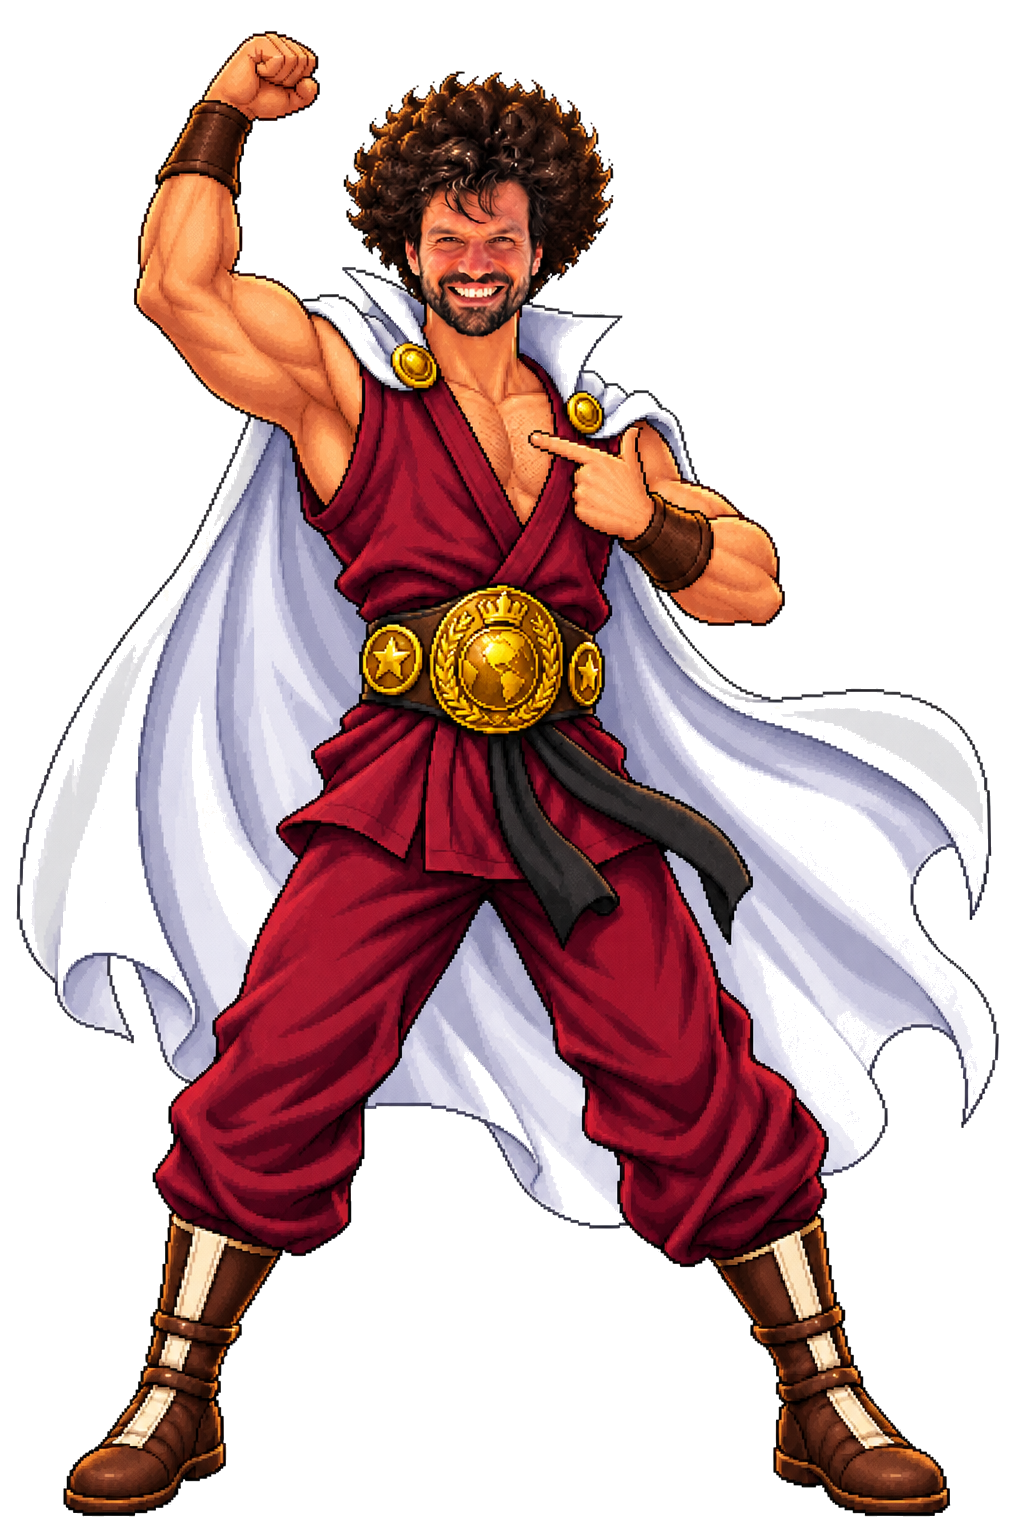
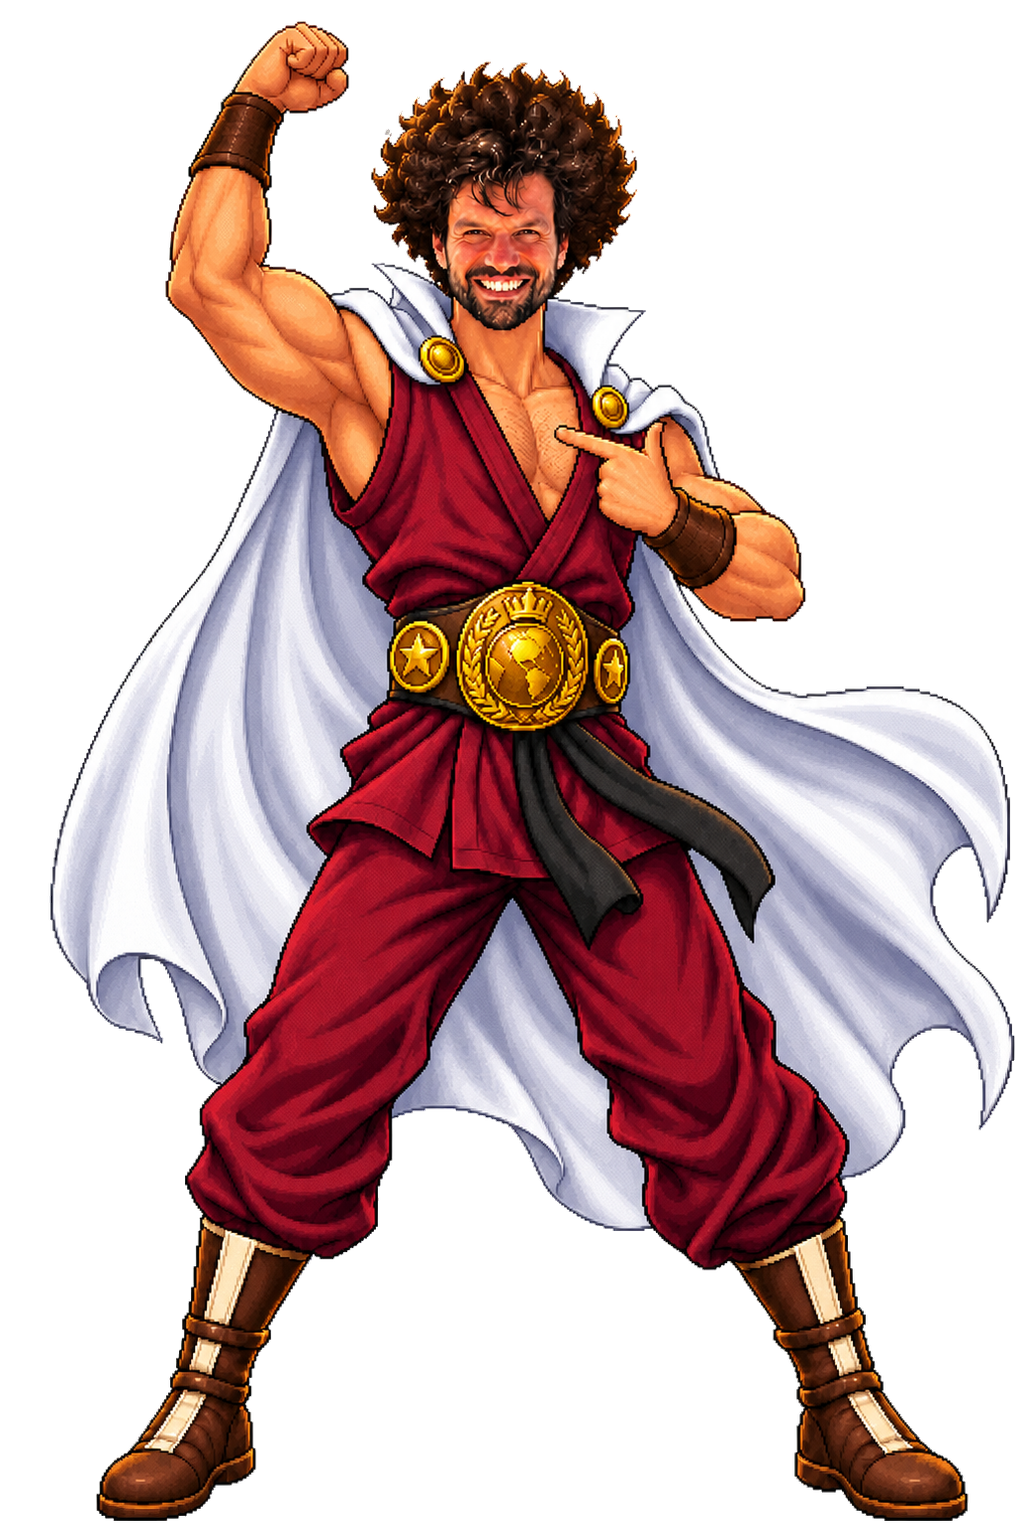
Corrige la cape d Alexandre et finalise l arene multijoueur

diff --git a/game.js b/game.js
@@ -4,7 +4,7 @@ const icons={
   green:`<svg class="med-icon" viewBox="0 0 48 48" aria-label="Bistouri"><path d="M7 41l3 2 19-21-3-4z"/><path d="M26 18L39 2v5c-1 6-5 12-10 15z" fill="white"/><path d="M10 39l17-19"/></svg>`,
   blue:`<svg class="med-icon" viewBox="0 0 48 48" aria-label="Seringue"><path d="M14 29l15-15 7 7-15 15z"/><path d="M33 18L44 7M10 25l5 5M20 35l5 5M17 33L9 41M5 37l8 8"/><path d="M19 29l4 4M22 26l4 4M25 23l4 4"/></svg>`
 };
-const CHARACTERS=[['Pascal','pascal-pirate.png'],['Mathieu','mathieu-luchador.png'],['Pierre','pierre-halloween.png'],['Adela','adela-egyptienne.png'],['JB','jb-cosmonaute.png?v=20260819-2'],['Romain','romain-poulet.png'],['Natacha','natacha-princesse.png'],['Fanny','fanny-exploratrice.png'],['Félix','felix-cyborg.png'],['Youri','youri-paladin.png?v=20260819-2'],['Quentin','quentin-dictateur.png'],['Nicolas','nicolas-vigilante.png'],['Yannick','yannick-cardinal.png?v=20260819-2'],['Cecilia','cecilia-infirmiere.png'],['Thibault','thibault-aventurier.png'],['Polo','polo-dandy.png'],['Édouard','edouard-aviateur.png'],['Justin','justin-judoka.png'],['Charlotte','charlotte-cavaliere.png?v=20260819-2'],["Catoire d’Arabie",'catoire-arabie.png'],['Rémy','remy-shaolin.png'],['Olivier','olivier-policier.png?v=20260819-2'],['Raphaël','raphael-scaphandrier.png?v=20260819-3'],['Éric','eric-druide.png'],['Cyril','cyril-alchimiste.png'],['Rémi','remi-berserker.png'],['Thomas','thomas-capitaine-sous-marin.png'],['Benjamin','benjamin-sherif.png'],['Edwin','edwin-zadiste.png'],['Alexandre','alexandre-hercule-satan.png'],['Erwan','erwan-bucheron.png']];
+const CHARACTERS=[['Pascal','pascal-pirate.png'],['Mathieu','mathieu-luchador.png'],['Pierre','pierre-halloween.png'],['Adela','adela-egyptienne.png'],['JB','jb-cosmonaute.png?v=20260819-2'],['Romain','romain-poulet.png'],['Natacha','natacha-princesse.png'],['Fanny','fanny-exploratrice.png'],['Félix','felix-cyborg.png'],['Youri','youri-paladin.png?v=20260819-2'],['Quentin','quentin-dictateur.png'],['Nicolas','nicolas-vigilante.png'],['Yannick','yannick-cardinal.png?v=20260819-2'],['Cecilia','cecilia-infirmiere.png'],['Thibault','thibault-aventurier.png'],['Polo','polo-dandy.png'],['Édouard','edouard-aviateur.png'],['Justin','justin-judoka.png'],['Charlotte','charlotte-cavaliere.png?v=20260819-2'],["Catoire d’Arabie",'catoire-arabie.png'],['Rémy','remy-shaolin.png'],['Olivier','olivier-policier.png?v=20260819-2'],['Raphaël','raphael-scaphandrier.png?v=20260819-3'],['Éric','eric-druide.png'],['Cyril','cyril-alchimiste.png'],['Rémi','remi-berserker.png'],['Thomas','thomas-capitaine-sous-marin.png'],['Benjamin','benjamin-sherif.png'],['Edwin','edwin-zadiste.png'],['Alexandre','alexandre-hercule-satan.png?v=20260819-2'],['Erwan','erwan-bucheron.png']];
 const FEMININE_HAND_CHARACTERS=new Set(['Adela','Natacha','Fanny','Cecilia','Charlotte']);
 const $=id=>document.getElementById(id);let socket,state,session=JSON.parse(localStorage.getItem('duel-session')||'null'),lastChatCount=0,reconnectTimer=null,connectionNumber=0,leavingRoom=false;
 const invitedCode=new URLSearchParams(location.search).get('join')?.trim().toUpperCase().replace(/[^A-Z2-9]/g,'').slice(0,5)||'';
@@ -76,8 +76,8 @@ function bindKickButtons(scope=document){scope.querySelectorAll('[data-kick]').f
 function renderWaiting(){$('copyCode').textContent=state.code;const host=state.viewerId===state.hostId,spectators=state.spectators.map(s=>`<div class="waiting-player spectator"><span class="spectator-icon">👁</span><span><b>${esc(s.name)}</b><small>ORGANISATEUR / SPECTATEUR${s.id===state.hostId?' · HÔTE':''}</small></span><i class="${s.connected?'online':''}"></i></div>`).join('');$('waitingPlayers').innerHTML=spectators+state.players.map(p=>`<div class="waiting-player"><img src="assets/characters/${characterFile(p.character)}" alt=""><span><b>${esc(p.name)}</b><small>${esc(p.character)}${p.id===state.hostId?' · HÔTE':''}${p.connected?'':' · DÉCONNECTÉ'}</small></span><i class="${p.connected?'online':''}"></i>${kickButton(p)}</div>`).join('');$('onlineStartButton').classList.toggle('hidden',!host);$('waitingCapacityLabel').classList.toggle('hidden',!host);$('waitingMaxPlayers').value=String(state.maxPlayers||6);$('waitingHint').textContent=host?(state.players.length<2?`En attente d’au moins deux joueurs actifs… (${state.players.length}/${state.maxPlayers})`:`${state.players.length}/${state.maxPlayers} joueurs dans la salle. Vous pouvez lancer la partie.`):`L’hôte lancera la partie · ${state.players.length}/${state.maxPlayers} joueurs.`;bindKickButtons($('waitingPlayers'))}
 function renderChat(){if(!state)return;const box=$('chatMessages'),atBottom=box.scrollHeight-box.scrollTop-box.clientHeight<40;box.innerHTML=state.chat.map(m=>`<div class="chat-message ${m.role==='spectator'?'spectator':''}"><b>${esc(m.sender)}</b><span>${esc(m.text)}</span></div>`).join('')||'<p class="chat-empty">Le chat est ouvert. Soyez le premier à parler.</p>';if(atBottom)box.scrollTop=box.scrollHeight;if(state.chat.length>lastChatCount&&$('chatPanel').classList.contains('collapsed'))$('chatBadge').textContent=String(state.chat.length-lastChatCount);lastChatCount=state.chat.length}
 function legalIds(){const me=state.players.find(p=>p.id===state.viewerId);if(!me||state.phase!=='play'||state.players[state.turn]?.id!==state.viewerId)return new Set();if(!state.leadColor)return new Set(me.dice.map(d=>d.id));const matching=me.dice.filter(d=>d.color===state.leadColor);return new Set((matching.length?[...matching,...me.dice.filter(d=>special(d.color))]:me.dice).map(d=>d.id))}
-function renderGame(){const legal=legalIds();$('roundValue').textContent=`${state.round} / ${state.totalRounds}`;$('trickValue').textContent=`${state.trick} / ${state.round}`;$('leadColor').textContent=state.leadColor?COLORS[state.leadColor].toUpperCase():'—';$('phaseValue').textContent={bids:'PARIS',play:'LANCER',result:'RÉSULTAT',over:'TERMINÉ'}[state.phase]||state.phase;$('game').dataset.phase=state.phase;$('playersGrid').dataset.count=state.players.length;
-  $('playersGrid').innerHTML=state.players.map((p,i)=>{const active=i===state.turn&&['bids','play'].includes(state.phase),mine=p.id===state.viewerId,side=i%2?'right-avatar':'left-avatar',bidDisplay=bidsAreRevealed()?bidGestureHTML(p,i,true):`<b>${p.bid??'—'}</b>`;return `<article class="player-card ${active?'active':''} ${mine?'is-me':''}"><div class="turn-indicator"><span>${mine?'À VOUS DE JOUER':'À SON TOUR'}</span><b>▼</b></div><div class="avatar-zone ${side}" aria-hidden="true"><div class="avatar-aura"></div><img class="character-sprite" src="assets/characters/${characterFile(p.character)}" alt=""><div class="avatar-shadow"></div></div><div class="player-head"><h3>${esc(p.name)}</h3><strong>${p.score}</strong></div><div class="metrics"><span class="bid-metric">PARI ${bidDisplay}</span><span>PLIS <b>${p.tricks}</b></span>${mine?'<span>VOUS</span>':''}</div><div class="dice-rack">${p.dice.map(d=>dieHTML(d,legal.has(d.id))).join('')}</div>${p.connected?'':'<small class="disconnected">HORS CONNEXION</small>'}${kickButton(p)}</article>`}).join('');document.querySelectorAll('[data-die]').forEach(el=>el.onclick=()=>send('play',{dieId:el.dataset.die}));bindKickButtons($('playersGrid'));$('playedDice').innerHTML=state.played.map(x=>`<div class="played-slot">${dieHTML(x.die)}<small>${esc(state.players[x.player].name)}</small></div>`).join('');$('bidReveal').classList.toggle('hidden',!shouldShowBidReveal());$('bidReveal').innerHTML=shouldShowBidReveal()?`<h3>PARIS RÉVÉLÉS !</h3>${bidRevealHTML()}`:'';$('bidControls').innerHTML='';$('nextButton').classList.add('hidden');$('resetButton').classList.add('hidden');$('newRoomButton').classList.add('hidden');const turnPlayer=state.players[state.turn],myTurn=turnPlayer?.id===state.viewerId;
+function renderGame(){const legal=legalIds();$('roundValue').textContent=`${state.round} / ${state.totalRounds}`;$('trickValue').textContent=`${state.trick} / ${state.round}`;$('leadColor').textContent=state.leadColor?COLORS[state.leadColor].toUpperCase():'—';$('phaseValue').textContent={bids:'PARIS',play:'LANCER',result:'RÉSULTAT',over:'TERMINÉ'}[state.phase]||state.phase;$('game').dataset.phase=state.phase;$('playersGrid').dataset.count=state.players.length;const arena=document.querySelector('.multiplayer-arena');arena.dataset.playerCount=state.players.length;arena.classList.toggle('radial-arena',state.players.length>=3);
+  $('playersGrid').innerHTML=state.players.map((p,i)=>{const active=i===state.turn&&['bids','play'].includes(state.phase),mine=p.id===state.viewerId,side=i%2?'right-avatar':'left-avatar',bidDisplay=`<b class="metric-number bid-number">${p.bid??'—'}</b>`;return `<article class="player-card ${active?'active':''} ${mine?'is-me':''}"><div class="turn-indicator"><span>${mine?'À VOUS DE JOUER':'À SON TOUR'}</span><b>▼</b></div><div class="avatar-zone ${side}" aria-hidden="true"><div class="avatar-aura"></div><img class="character-sprite" src="assets/characters/${characterFile(p.character)}" alt=""><div class="avatar-shadow"></div></div><div class="player-head"><h3>${esc(p.name)}</h3><strong>${p.score}</strong></div><div class="metrics"><span class="bid-metric">PARI ${bidDisplay}</span><span class="trick-metric">PLIS <b class="metric-number">${p.tricks}</b></span>${mine?'<span>VOUS</span>':''}</div><div class="dice-rack">${p.dice.map(d=>dieHTML(d,legal.has(d.id))).join('')}</div>${p.connected?'':'<small class="disconnected">HORS CONNEXION</small>'}${kickButton(p)}</article>`}).join('');document.querySelectorAll('[data-die]').forEach(el=>el.onclick=()=>send('play',{dieId:el.dataset.die}));bindKickButtons($('playersGrid'));$('playedDice').innerHTML=state.played.map(x=>`<div class="played-slot">${dieHTML(x.die)}<small>${esc(state.players[x.player].name)}</small></div>`).join('');$('bidReveal').classList.toggle('hidden',!shouldShowBidReveal());$('bidReveal').innerHTML=shouldShowBidReveal()?`<h3>PARIS RÉVÉLÉS !</h3>${bidRevealHTML()}`:'';$('bidControls').innerHTML='';$('nextButton').classList.add('hidden');$('resetButton').classList.add('hidden');$('newRoomButton').classList.add('hidden');const turnPlayer=state.players[state.turn],myTurn=turnPlayer?.id===state.viewerId;
   if(state.phase==='bids'){$('message').innerHTML=`<strong>PARI DE ${esc(turnPlayer.name.toUpperCase())}</strong><br><span>${myTurn?'Choisissez le nombre de plis que vous allez remporter.':'En attente de son pari…'}</span>`;if(myTurn){$('bidControls').innerHTML=Array.from({length:state.round+1},(_,n)=>`<button data-bid="${n}">${n}</button>`).join('');document.querySelectorAll('[data-bid]').forEach(el=>el.onclick=()=>send('bid',{bid:+el.dataset.bid}))}}
   if(state.phase==='play')$('message').innerHTML=`<strong>AU TOUR DE ${esc(turnPlayer.name.toUpperCase())}</strong><br><span>${myTurn?'Choisissez maintenant l’un de vos dés illuminés.':'Son choix apparaîtra ici.'}</span>`;if(state.phase==='result'){$('message').textContent=`Pli remporté par ${state.players[state.leader].name}.`;$('nextButton').classList.toggle('hidden',state.players[state.leader].id!==state.viewerId)}if(state.phase==='over'){const max=Math.max(...state.players.map(p=>p.score)),winners=state.players.filter(p=>p.score===max).map(p=>p.name);$('message').textContent=winners.length>1?`Égalité : ${winners.join(' et ')}.`:`${winners[0]} remporte le duel !`;$('playedDice').innerHTML='<strong>DUEL TERMINÉ</strong>';const host=state.viewerId===state.hostId;$('resetButton').classList.toggle('hidden',!host);$('newRoomButton').classList.toggle('hidden',!host)}renderMobileStage()}
 function renderMobileStage(){

diff --git a/multiplayer.css b/multiplayer.css
@@ -56,7 +56,9 @@
 .bid-gesture em{position:absolute;right:1px;bottom:1px;display:grid;width:24px;height:24px;place-items:center;border:1px solid #ffe49b;border-radius:50%;background:#772a1d;color:#fff3bd;font:900 14px/1 Georgia,serif;box-shadow:0 2px 0 #32120c}
 .bid-gesture.compact{width:34px;height:25px;margin:-8px 0 -6px;vertical-align:middle;filter:none}
 .bid-gesture.compact em{right:-3px;bottom:-3px;width:14px;height:14px;font-size:8px}
-.bid-metric{display:inline-flex!important;align-items:center;gap:3px}
+.bid-metric,.trick-metric{display:inline-flex!important;align-items:center;gap:6px;font-size:11px!important;letter-spacing:.08em}
+.arena .metrics .metric-number{display:inline-grid;min-width:21px;height:21px;place-items:center;padding:0;border:1px solid #7a5429;border-radius:50%;background:#b53627;color:#fff1c2;font:900 12px/1 Arial,sans-serif;letter-spacing:0;box-shadow:0 2px 0 #5a261d,0 0 6px #b83a252b}
+.arena .metrics .trick-metric .metric-number{background:#8f2e24}
 @keyframes bid-hand-reveal{from{opacity:0;transform:translateY(18px) scale(.72)}to{opacity:1;transform:none}}
 
 @media(max-width:620px){
@@ -376,6 +378,100 @@
   .arena.multiplayer-arena>.players-grid>article.player-card.active{
     box-shadow:0 18px 34px #0009,0 0 28px #ffb743aa,inset 0 0 0 2px #f1d38c,inset 0 0 35px #b77b2844!important;
   }
+
+  /* À partir de trois joueurs, la table devient une arène : le parchemin
+     commun reste au centre et les joueurs sont répartis sur son pourtour. */
+  .arena.multiplayer-arena.radial-arena{
+    position:relative!important;
+    display:block!important;
+    min-height:790px!important;
+    padding:20px 16px 24px!important;
+    overflow:hidden;
+  }
+  .arena.multiplayer-arena.radial-arena>.table{
+    position:absolute!important;
+    z-index:3;
+    left:50%!important;
+    top:50%!important;
+    grid-column:auto!important;
+    grid-row:auto!important;
+    width:clamp(360px,38%,455px)!important;
+    min-height:0!important;
+    aspect-ratio:1 / 1!important;
+    margin:0!important;
+    padding:48px 38px 42px!important;
+    border-radius:46% 46% 43% 43% / 42% 42% 48% 48%!important;
+    transform:translate(-50%,-50%)!important;
+    box-shadow:0 24px 42px #000b,0 0 0 8px #70501f88,inset 0 0 0 3px #d9b75f,inset 0 0 55px #9c6a2338!important;
+  }
+  .arena.multiplayer-arena.radial-arena>.table::before,
+  .arena.multiplayer-arena.radial-arena>.table::after{border-radius:inherit!important}
+  .arena.multiplayer-arena.radial-arena>.players-grid{
+    position:absolute!important;
+    z-index:4;
+    inset:0!important;
+    display:block!important;
+    pointer-events:none;
+  }
+  .arena.multiplayer-arena.radial-arena>.players-grid>article.player-card{
+    position:absolute!important;
+    width:clamp(205px,21vw,258px)!important;
+    min-height:205px!important;
+    margin:0!important;
+    padding:13px!important;
+    pointer-events:auto;
+    transition:filter .2s ease,box-shadow .2s ease,transform .2s ease;
+  }
+  .arena.multiplayer-arena.radial-arena .avatar-zone{
+    top:-142px!important;
+    width:142px!important;
+    height:158px!important;
+    overflow:hidden;
+    -webkit-mask-image:linear-gradient(#000 0 78%,transparent 100%);
+    mask-image:linear-gradient(#000 0 78%,transparent 100%);
+  }
+  .arena.multiplayer-arena.radial-arena .character-sprite{
+    max-height:158px!important;
+    object-position:center bottom!important;
+  }
+  .arena.multiplayer-arena.radial-arena .dice-rack{min-height:58px!important;gap:7px!important}
+  .arena.multiplayer-arena.radial-arena .die{width:44px!important;height:44px!important}
+  .arena.multiplayer-arena.radial-arena .turn-indicator{top:-42px!important}
+
+  /* Trois joueurs : un sommet et deux adversaires à la base de l'ellipse. */
+  .radial-arena[data-player-count="3"]>.players-grid>article:nth-child(1){left:50%;top:142px;transform:translateX(-50%)}
+  .radial-arena[data-player-count="3"]>.players-grid>article:nth-child(2){left:28px;bottom:30px}
+  .radial-arena[data-player-count="3"]>.players-grid>article:nth-child(3){right:28px;bottom:30px}
+
+  /* Quatre joueurs : les cartes occupent les quatre quarts de l'arène. */
+  .radial-arena[data-player-count="4"]>.players-grid>article:nth-child(1){left:24px;top:155px}
+  .radial-arena[data-player-count="4"]>.players-grid>article:nth-child(2){right:24px;top:155px}
+  .radial-arena[data-player-count="4"]>.players-grid>article:nth-child(3){left:24px;bottom:26px}
+  .radial-arena[data-player-count="4"]>.players-grid>article:nth-child(4){right:24px;bottom:26px}
+
+  /* Cinq et six joueurs : colonnes courbes de part et d'autre du centre. */
+  .radial-arena:is([data-player-count="5"],[data-player-count="6"]){min-height:820px!important}
+  .radial-arena:is([data-player-count="5"],[data-player-count="6"])>.table{width:clamp(340px,34%,410px)!important}
+  .radial-arena:is([data-player-count="5"],[data-player-count="6"])>.players-grid>article.player-card{
+    width:clamp(190px,19vw,228px)!important;
+    min-height:174px!important;
+    padding:11px!important;
+  }
+  .radial-arena:is([data-player-count="5"],[data-player-count="6"]) .avatar-zone{top:-112px!important;width:116px!important;height:128px!important}
+  .radial-arena:is([data-player-count="5"],[data-player-count="6"]) .character-sprite{max-height:128px!important}
+  .radial-arena:is([data-player-count="5"],[data-player-count="6"]) .die{width:39px!important;height:39px!important}
+  .radial-arena:is([data-player-count="5"],[data-player-count="6"]) .dice-rack{min-height:48px!important}
+  .radial-arena[data-player-count="5"]>.players-grid>article:nth-child(1){left:28px;top:130px}
+  .radial-arena[data-player-count="5"]>.players-grid>article:nth-child(2){right:28px;top:130px}
+  .radial-arena[data-player-count="5"]>.players-grid>article:nth-child(3){left:18px;bottom:42px}
+  .radial-arena[data-player-count="5"]>.players-grid>article:nth-child(4){right:18px;bottom:42px}
+  .radial-arena[data-player-count="5"]>.players-grid>article:nth-child(5){left:50%;bottom:18px;transform:translateX(-50%)}
+  .radial-arena[data-player-count="6"]>.players-grid>article:nth-child(1){left:24px;top:118px}
+  .radial-arena[data-player-count="6"]>.players-grid>article:nth-child(2){right:24px;top:118px}
+  .radial-arena[data-player-count="6"]>.players-grid>article:nth-child(3){left:12px;top:50%;transform:translateY(-18%)}
+  .radial-arena[data-player-count="6"]>.players-grid>article:nth-child(4){right:12px;top:50%;transform:translateY(-18%)}
+  .radial-arena[data-player-count="6"]>.players-grid>article:nth-child(5){left:24px;bottom:20px}
+  .radial-arena[data-player-count="6"]>.players-grid>article:nth-child(6){right:24px;bottom:20px}
 }
 @media(max-width:620px){
   .mobile-tabs{display:none!important}.arena.multiplayer-arena{display:none!important}.mobile-stage{display:flex;min-height:calc(100dvh - 205px);margin-top:7px;padding:18px 14px 142px;border:1px solid #8fcdbd55;border-radius:14px;background:linear-gradient(#071b20e8,#102d29f2),url("assets/environments/jungle-temple-arena.png") center/cover;box-shadow:inset 0 0 35px #0008;flex-direction:column;color:#effff9}

diff --git a/index.html b/index.html
@@ -13,7 +13,7 @@
   <link rel="manifest" href="/site.webmanifest?v=2">
   <link rel="stylesheet" href="styles.css?v=5">
   <link rel="stylesheet" href="theme.css?v=5">
-  <link rel="stylesheet" href="multiplayer.css?v=20">
+  <link rel="stylesheet" href="multiplayer.css?v=22">
 </head>
 <body>
   <div id="connectionBanner" class="connection-banner hidden">RECONNEXION AU SERVEUR…</div>
@@ -56,11 +56,11 @@
         </label>
         <label>NOMBRE MAXIMAL DE JOUEURS
           <select id="maxPlayers">
-            <option value="2" selected>2 joueurs</option>
+            <option value="2">2 joueurs</option>
             <option value="3">3 joueurs</option>
             <option value="4">4 joueurs</option>
             <option value="5">5 joueurs</option>
-            <option value="6">6 joueurs</option>
+            <option value="6" selected>6 joueurs</option>
           </select>
         </label>
         <div class="lobby-choice">
@@ -92,7 +92,7 @@
         <label id="waitingCapacityLabel" class="waiting-capacity hidden">CAPACITÉ DE LA SALLE
           <select id="waitingMaxPlayers">
             <option value="2">2 joueurs</option><option value="3">3 joueurs</option><option value="4">4 joueurs</option>
-            <option value="5">5 joueurs</option><option value="6">6 joueurs</option>
+            <option value="5">5 joueurs</option><option value="6" selected>6 joueurs</option>
           </select>
         </label>
         <div id="waitingPlayers" class="waiting-players"></div>
@@ -165,6 +165,6 @@
     <p class="gallery-intro">Découvrez tous les personnages disponibles avant de choisir votre champion.</p>
     <div id="galleryGrid" class="gallery-grid"></div>
   </dialog>
-  <script src="game.js?v=20"></script>
+  <script src="game.js?v=23"></script>
 </body>
 </html>

diff --git a/server.js b/server.js
@@ -180,7 +180,7 @@ function nextStep(room){
 function handle(ws, msg){
   if(msg.type==='create'){
     const roomCode=code(), playerId=id();
-    const room={code:roomCode,status:'lobby',hostId:playerId,totalRounds:Math.max(1,Math.min(8,Number(msg.rounds)||8)),maxPlayers:Math.max(2,Math.min(6,Number(msg.maxPlayers)||2)),round:1,trick:1,phase:'lobby',leader:0,turn:0,leadColor:null,played:[],players:[],spectators:[],chat:[],resultRecorded:false};
+    const room={code:roomCode,status:'lobby',hostId:playerId,totalRounds:Math.max(1,Math.min(8,Number(msg.rounds)||8)),maxPlayers:Math.max(2,Math.min(6,Number(msg.maxPlayers)||6)),round:1,trick:1,phase:'lobby',leader:0,turn:0,leadColor:null,played:[],players:[],spectators:[],chat:[],resultRecorded:false};
     if(msg.organizer)room.spectators.push({id:playerId,name:'Organisateur',ws});
     else {const character=normalizeCharacter(String(msg.character||'Personnage').slice(0,24));room.players.push({id:playerId,name:character,character,score:0,bid:null,tricks:0,dice:[],ws});}
     rooms.set(roomCode,room);ws.room=roomCode;ws.playerId=playerId;send(ws,'session',{code:roomCode,playerId});broadcast(room);return;
